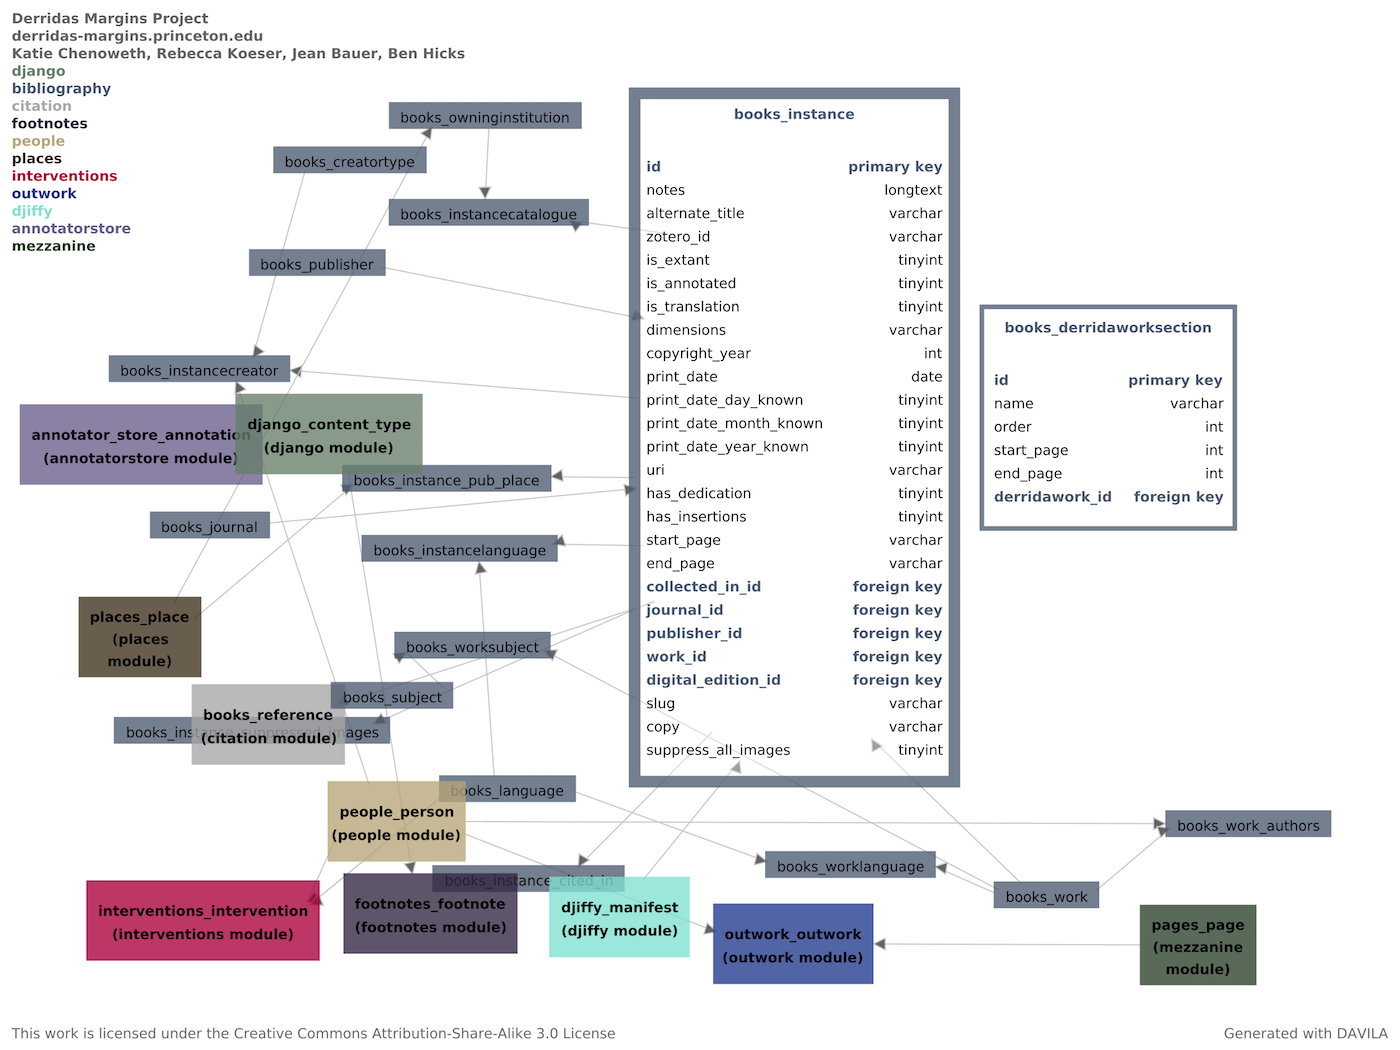
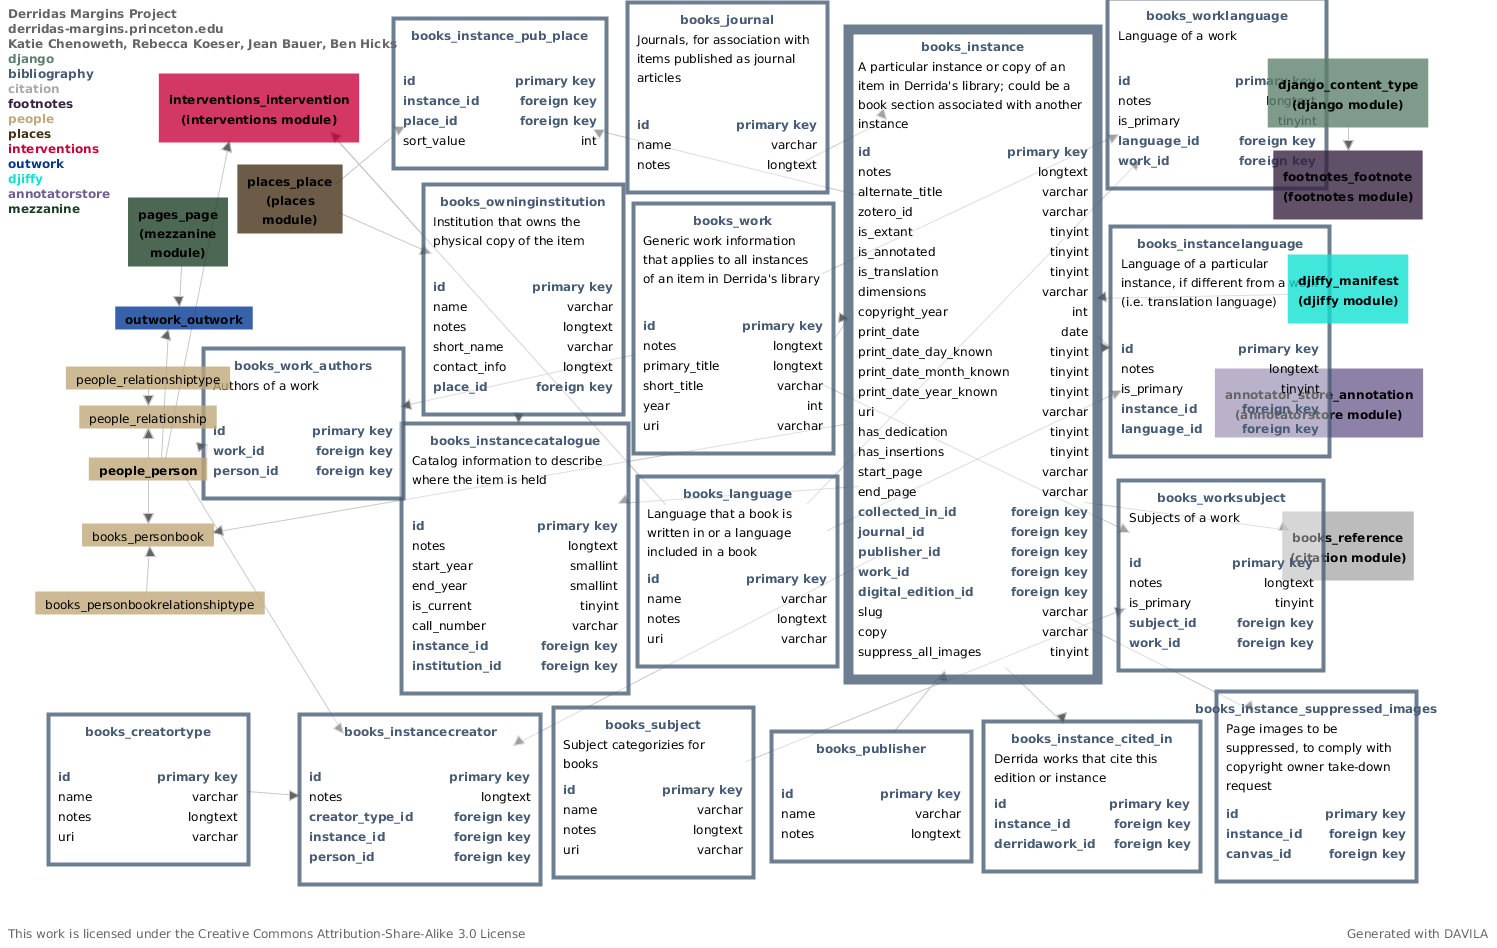
Update davila diagrams and customization

diff --git a/derrida/books/models.py b/derrida/books/models.py
@@ -92,7 +92,7 @@ class OwningInstitution(Named, Notable, InstanceCount):
 
 
 class Journal(Named, Notable):
-    '''List of associated journals for use with "book" objects'''
+    '''List of associated journals for items published as journal articles'''
     pass
 
 
@@ -678,7 +678,7 @@ class DerridaWorkSection(models.Model):
 
 
 class ReferenceType(Named, Notable):
-    '''Type of reference, i.e. citation, quotation, foonotes, epigraph, etc.'''
+    '''Type of reference, i.e. citation, quotation, footnotes, epigraph, etc.'''
     pass
 
 

diff --git a/sphinx-docs/architecture.rst b/sphinx-docs/architecture.rst
@@ -5,6 +5,42 @@ Architecture
    :maxdepth: 2
 
 
+
+0.9 Public access to Library works, references, interventions
+~~~~~~~~~~~~~~~~~~~~~~~~~~~~~~~~~~~~~~~~~~~~~~~~~~~~~~~~~~~~~
+
+Major changes to schema noted here include:
+
+  * Refinements to Work and Instance tables
+  * Outwork tables and Mezzanine functionality
+
+Reference detail
+
+.. image:: _static/derrida.0.9-citation-detail.png
+    :target: _static/derrida.0.9-citation-detail.png
+    :alt: Reference schema detail for Derrida 0.9
+
+Library works detail (Bibliography)
+
+.. image:: _static/derrida.0.9-bibliography-detail.png
+    :target: _static/derrida.0.9-bibliography-detail.png
+    :alt: Bibliography schema detail for Derrida 0.9
+
+Outwork detail
+
+.. image:: _static/derrida.0.9-outwork-detail.png
+    :target: _static/derrida.0.9-outwork-detail.png
+    :alt: Outwork schema detail for Derrida 0.9
+
+
+0.8 Interventions (Phase I) Module
+~~~~~~~~~~~~~~~~~~~~~~~~~~~~~~~~~~
+
+.. image:: _static/derrida.schema-interventions-phaseI.png
+    :target: _static/derrida.schema-interventions-phaseI.png
+    :alt: Derrida schema, interventions phase I module
+
+
 Database
 --------
 
@@ -25,31 +61,3 @@ Database Schema as rendered in DAVILA
 .. image:: _static/derrida.schema-3.png
     :target: _static/derrida.schema-3.png
     :alt: Derrida schema page 4
-
-0.8 Interventions (Phase I) Module
-~~~~~~~~~~~~~~~~~~~~~~~~~~~~~~~~~~
-
-.. image:: _static/derrida.schema-interventions-phaseI.png
-    :target: _static/derrida.schema-interventions-phaseI.png
-    :alt: Derrida schema, interventions phase I module
-
-
-0.9 (Library works and references)
-~~~~~~~~~~~~~~~~~~~~~~~~~~~~~~~~~~
-
-Major changes to schema noted here include:
-
-  * Refinements to Work and Instance tables
-  * Outwork tables and Mezzanine functionality
-
-.. image:: _static/derrida.0.9-citation-detail.png
-    :target: _static/derrida.0.9-citation-detail.png
-    :alt: Citation schema for Derrida 0.9
-
-.. image:: _static/derrida.0.9-bibliography-detail.png
-    :target: _static/derrida.0.9-bibliography-detail.png
-    :alt: Bibliography schema for Derrida 0.9, detail of changes
-
-.. image:: _static/derrida.0.9-outwork-detail.png
-    :target: _static/derrida.0.9-outwork-detail.png
-    :alt: Outwork schema for Derrida 0.9    
